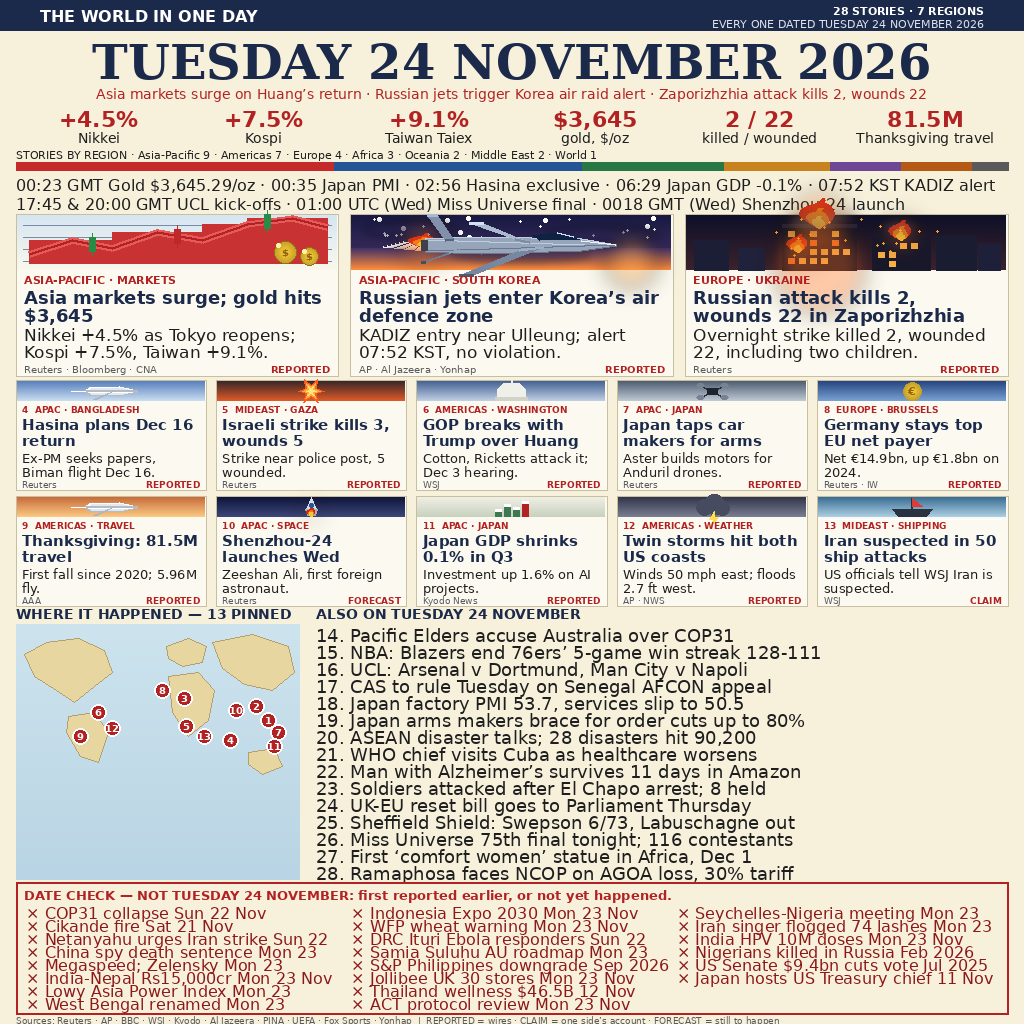
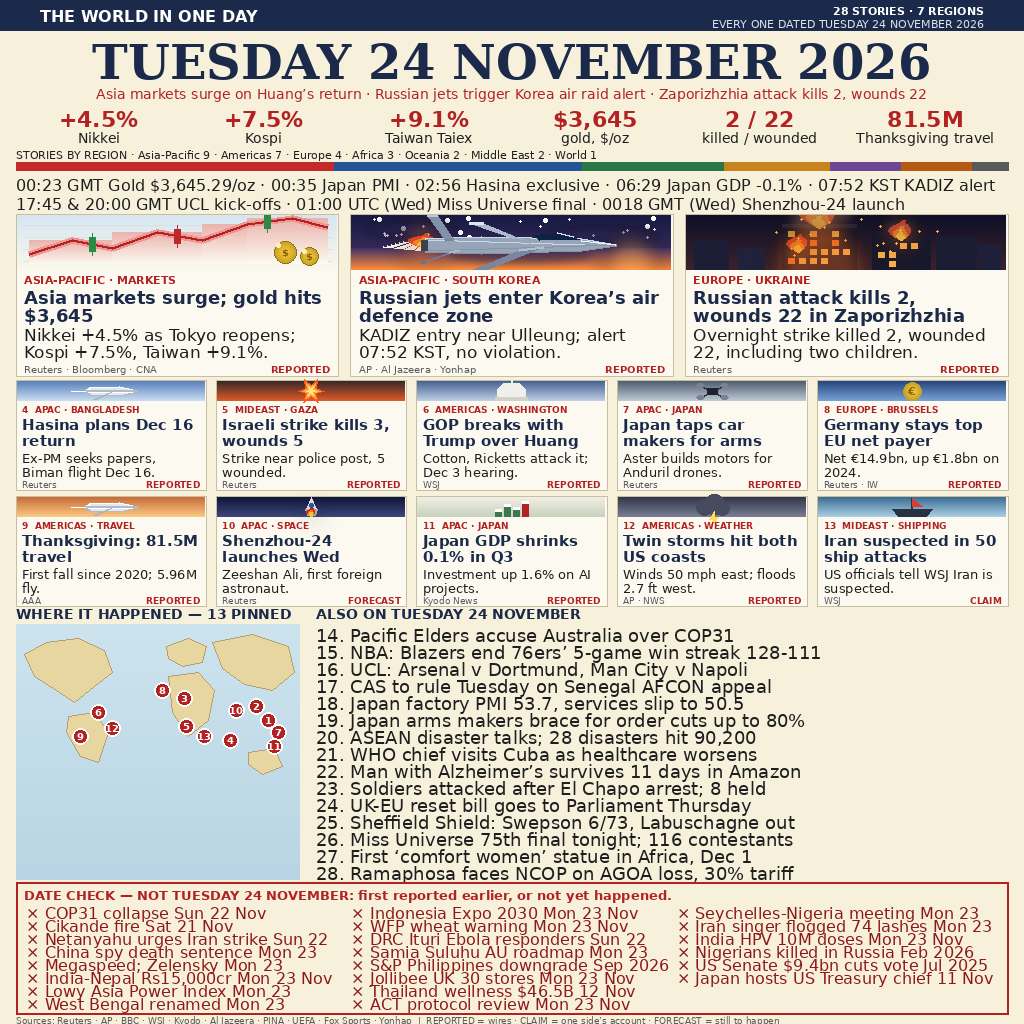
news-image-20261124 v5 fix: clip lead pictorials to band so fire flame no longer overlaps timeline (Shenzhou-24 text)

diff --git a/main.py b/main.py
@@ -595,7 +595,14 @@ def render():
         x = MX + i * (card_w + 12)
         d.rectangle([x, big_y, x + card_w, big_y + big_h], fill=CARD_BG,
                     outline=CARD_LINE)
-        pic_fns[kind](img, int(x + 1), big_y + 1, int(card_w - 2), pic_h)
+        # Clip the pictorial to its band: draw on a separate layer so no
+        # flame/glow/smoke can escape above the band into the timeline.
+        # (v5 bug: the fire pictorial's main flame rose 17px above the band
+        # and covered "Shenzhou-24" in the timeline.)
+        pic_w = int(card_w - 2)
+        layer = Image.new("RGBA", (pic_w, pic_h), (0, 0, 0, 0))
+        pic_fns[kind](layer, 0, 0, pic_w, pic_h)
+        img.alpha_composite(layer, (int(x + 1), big_y + 1))
         ty = big_y + pic_h + 4
         d.text((x + 8, ty), kicker, font=F_SANS_B(F_KICK), fill=RED)
         hl = wrap(d, headline, F_SANS_B(F_HEAD_BIG), card_w - 16)
